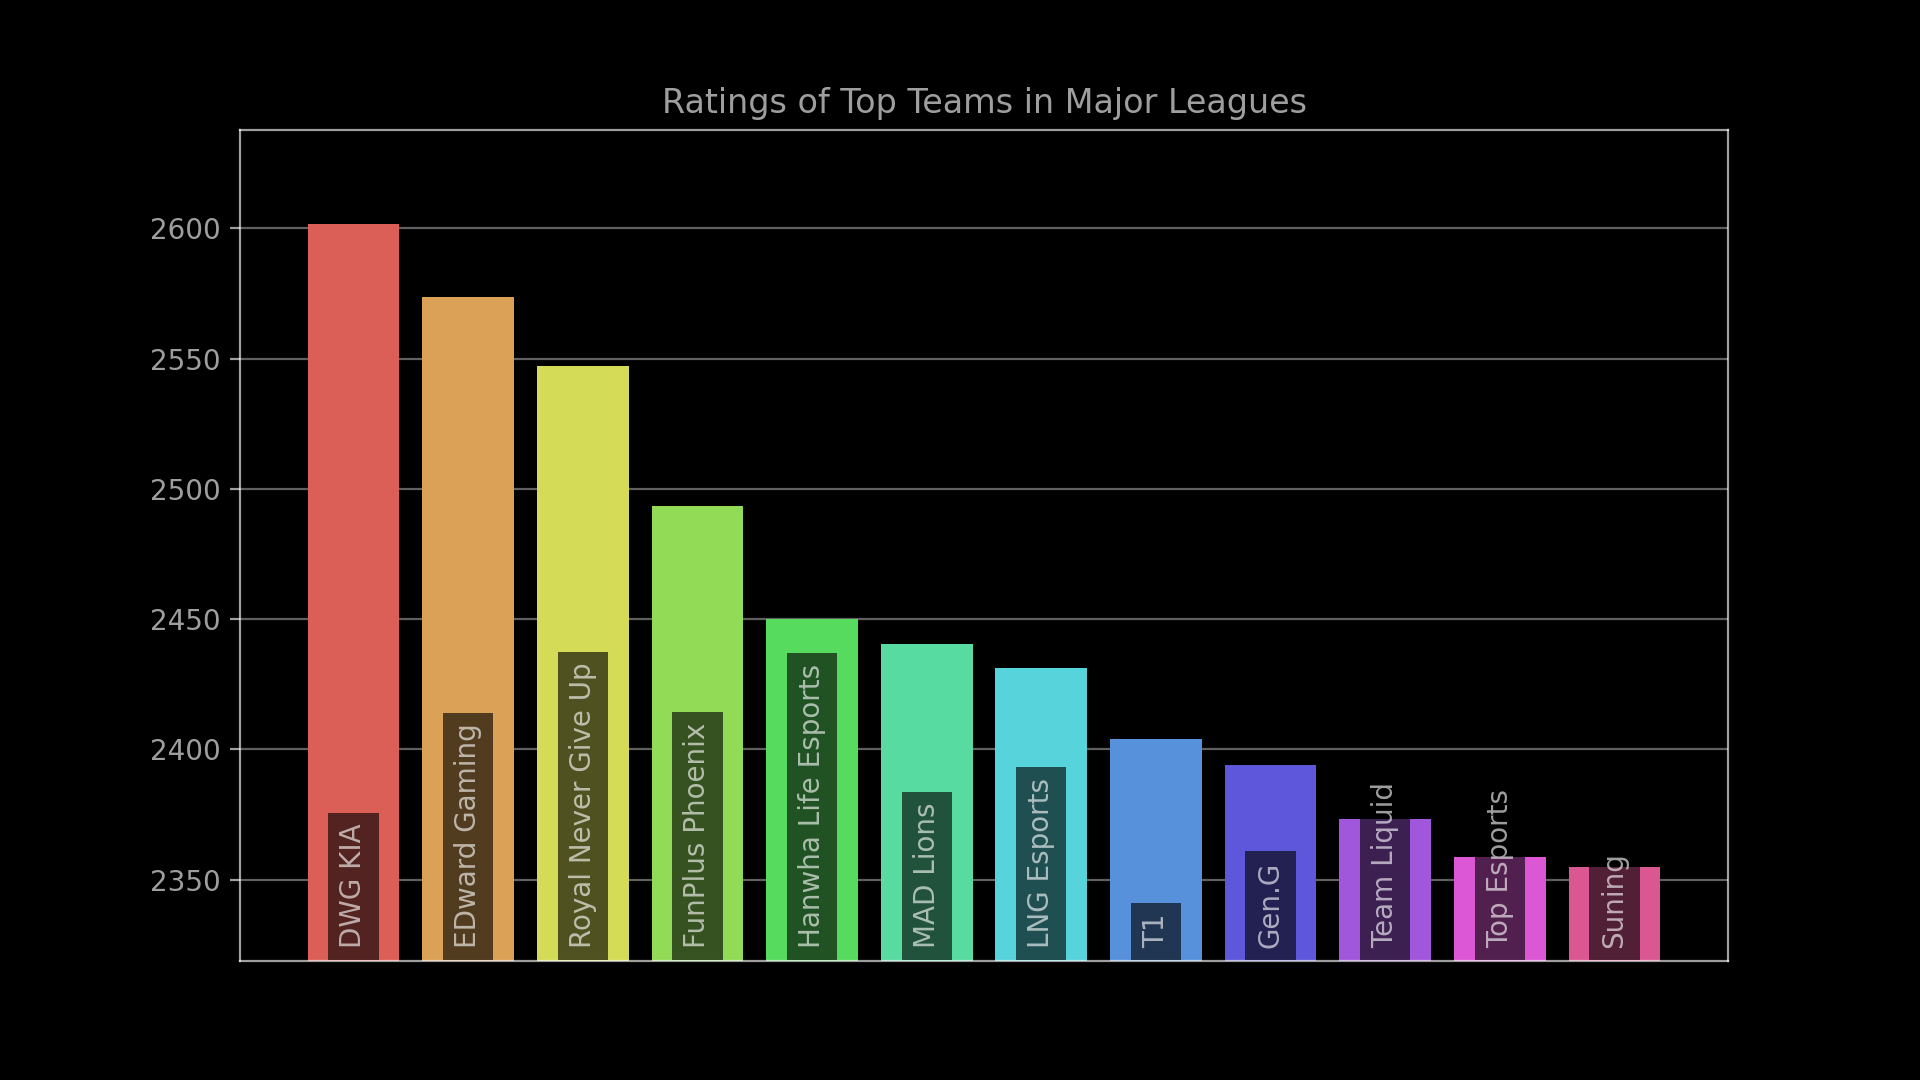
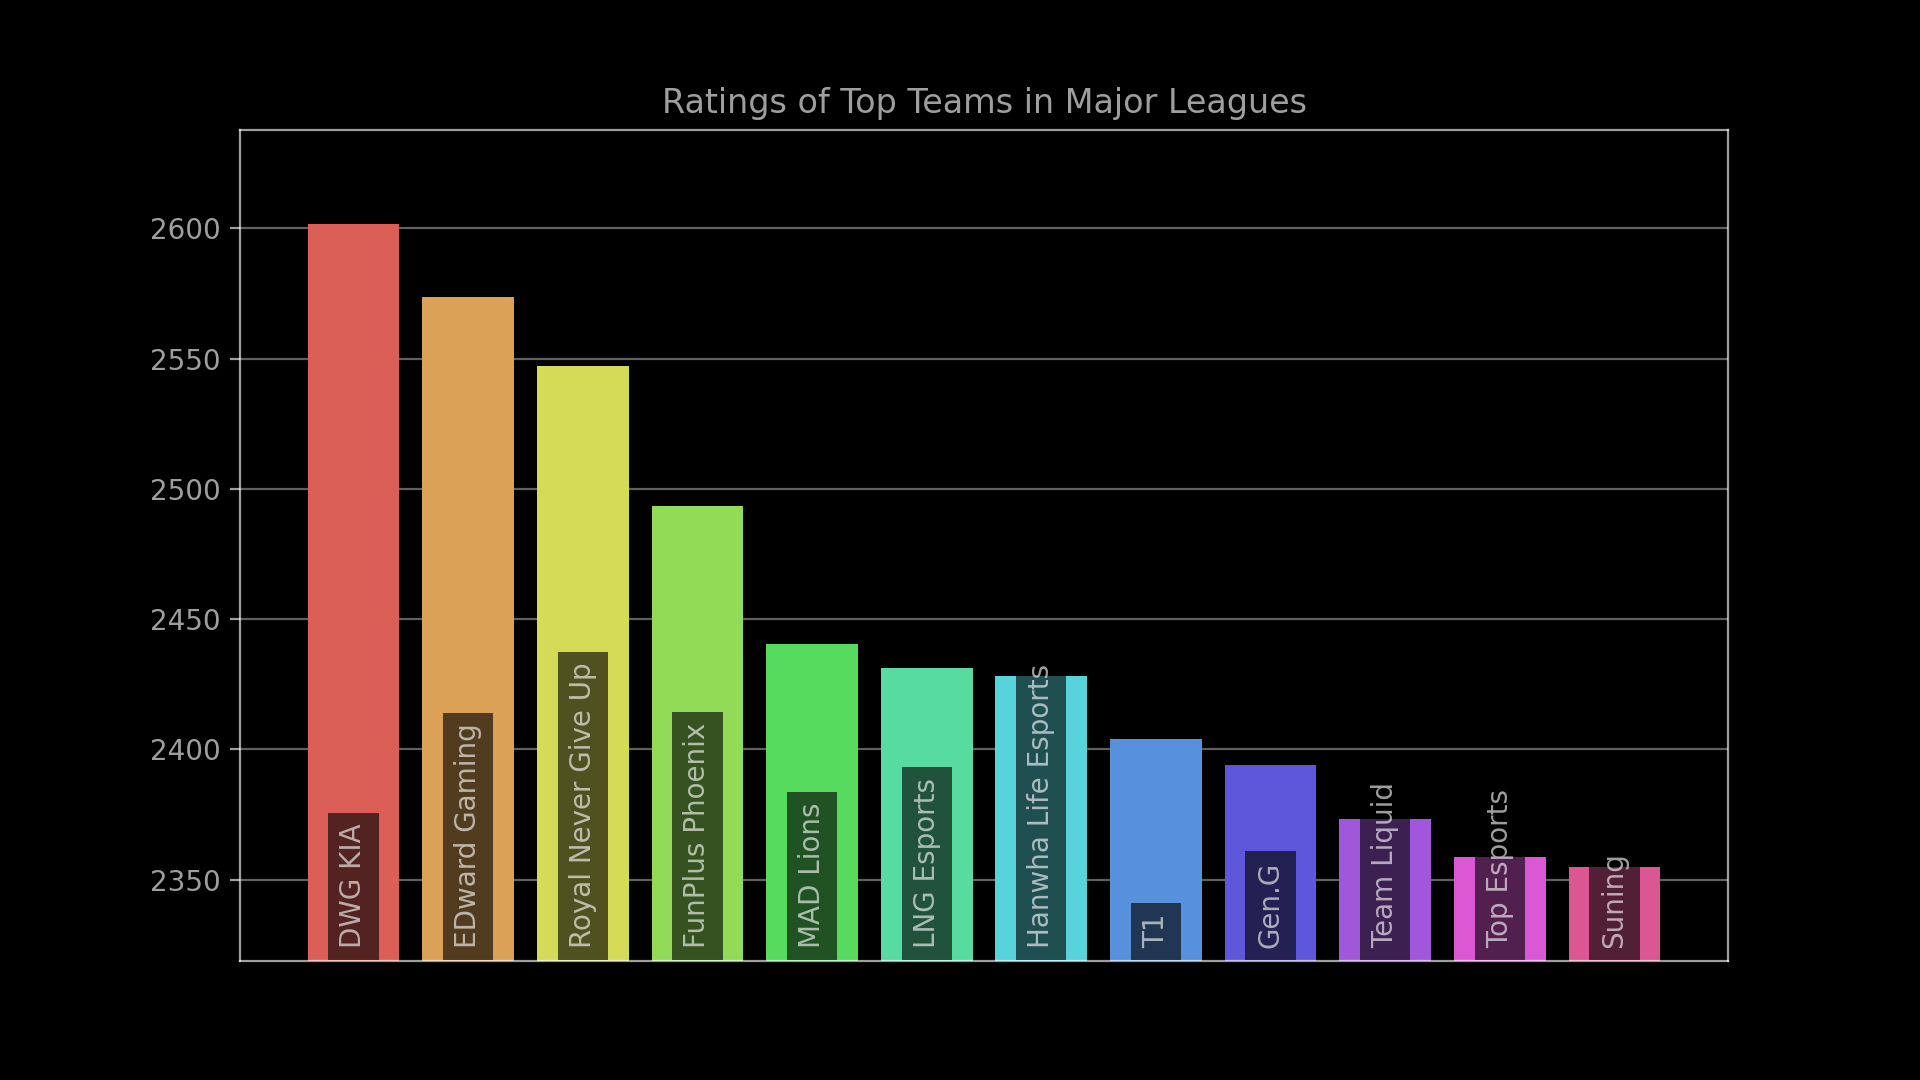
Update rating charts for 2021-10-12 15:00:00.

Changed region(s): [[0.375, 0.55, 0.5625, 0.8861], [0.4688, 0.7028, 0.5, 0.8556]]

diff --git a/index.html b/index.html
@@ -79,11 +79,11 @@
                 <tr><td style="text-align: right">1</td><td class="name">DWG KIA</td><td class="league" style="text-align: center">LCK</td><td class="rating" style="text-align: center">2601.8</td><td class="diff" style="text-align: center; white-space: nowrap"><span style="color: #4CAF50">&plus;39.5</span></td></tr>
             <tr><td style="text-align: right">2</td><td class="name">EDward Gaming</td><td class="league" style="text-align: center">LPL</td><td class="rating" style="text-align: center">2573.7</td><td class="diff" style="text-align: center; white-space: nowrap"><span style="color: #4CAF50">&plus;37.3</span></td></tr>
             <tr><td style="text-align: right">3</td><td class="name">Royal Never Give Up</td><td class="league" style="text-align: center">LPL</td><td class="rating" style="text-align: center">2547.1</td><td class="diff" style="text-align: center; white-space: nowrap"><span style="color: #4CAF50">&plus;21.4</span></td></tr>
-            <tr><td style="text-align: right">4</td><td class="name">FunPlus Phoenix</td><td class="league" style="text-align: center">LPL</td><td class="rating" style="text-align: center">2493.6</td><td class="diff" style="text-align: center; white-space: nowrap"><span style="color: #F44336">&minus;19.0</span></td></tr>
-            <tr><td style="text-align: right">5</td><td class="name">PSG Talon</td><td class="league" style="text-align: center">PCS</td><td class="rating" style="text-align: center">2455.8</td><td class="diff" style="text-align: center; white-space: nowrap"><span style="color: #F44336">&minus;21.2</span></td></tr>
-            <tr><td style="text-align: right">6</td><td class="name">Hanwha Life Esports</td><td class="league" style="text-align: center">LCK</td><td class="rating" style="text-align: center">2450.0</td><td class="diff" style="text-align: center; white-space: nowrap"><span style="color: #4CAF50">&plus;120.0</span></td></tr>
-            <tr><td style="text-align: right">7</td><td class="name">MAD Lions</td><td class="league" style="text-align: center">LEC</td><td class="rating" style="text-align: center">2440.6</td><td class="diff" style="text-align: center; white-space: nowrap"><span style="color: #F44336">&minus;32.9</span></td></tr>
-            <tr><td style="text-align: right">8</td><td class="name">LNG Esports</td><td class="league" style="text-align: center">LPL</td><td class="rating" style="text-align: center">2431.1</td><td class="diff" style="text-align: center; white-space: nowrap"><span style="color: #F44336">&minus;32.7</span></td></tr>
+            <tr><td style="text-align: right">4</td><td class="name">PSG Talon</td><td class="league" style="text-align: center">PCS</td><td class="rating" style="text-align: center">2501.2</td><td class="diff" style="text-align: center; white-space: nowrap"><span style="color: #4CAF50">&plus;24.2</span></td></tr>
+            <tr><td style="text-align: right">5</td><td class="name">FunPlus Phoenix</td><td class="league" style="text-align: center">LPL</td><td class="rating" style="text-align: center">2493.6</td><td class="diff" style="text-align: center; white-space: nowrap"><span style="color: #F44336">&minus;19.0</span></td></tr>
+            <tr><td style="text-align: right">6</td><td class="name">MAD Lions</td><td class="league" style="text-align: center">LEC</td><td class="rating" style="text-align: center">2440.6</td><td class="diff" style="text-align: center; white-space: nowrap"><span style="color: #F44336">&minus;32.9</span></td></tr>
+            <tr><td style="text-align: right">7</td><td class="name">LNG Esports</td><td class="league" style="text-align: center">LPL</td><td class="rating" style="text-align: center">2431.1</td><td class="diff" style="text-align: center; white-space: nowrap"><span style="color: #F44336">&minus;32.7</span></td></tr>
+            <tr><td style="text-align: right">8</td><td class="name">Hanwha Life Esports</td><td class="league" style="text-align: center">LCK</td><td class="rating" style="text-align: center">2428.1</td><td class="diff" style="text-align: center; white-space: nowrap"><span style="color: #4CAF50">&plus;98.1</span></td></tr>
             <tr><td style="text-align: right">9</td><td class="name">T1</td><td class="league" style="text-align: center">LCK</td><td class="rating" style="text-align: center">2404.0</td><td class="diff" style="text-align: center; white-space: nowrap"><span style="color: #F44336">&minus;9.5</span></td></tr>
             <tr><td style="text-align: right">10</td><td class="name">Gen.G</td><td class="league" style="text-align: center">LCK</td><td class="rating" style="text-align: center">2393.9</td><td class="diff" style="text-align: center; white-space: nowrap"><span style="color: #4CAF50">&plus;29.5</span></td></tr>
             <tr><td style="text-align: right">11</td><td class="name">Team Liquid</td><td class="league" style="text-align: center">LCS</td><td class="rating" style="text-align: center">2373.2</td><td class="diff" style="text-align: center; white-space: nowrap"><span style="color: #4CAF50">&plus;32.2</span></td></tr>
@@ -94,7 +94,7 @@
             <tr><td style="text-align: right">16</td><td class="name">Team WE</td><td class="league" style="text-align: center">LPL</td><td class="rating" style="text-align: center">2340.1</td><td class="diff" style="text-align: center; white-space: nowrap"></td></tr>
             <tr><td style="text-align: right">17</td><td class="name">Rogue </td><td class="league" style="text-align: center">LEC</td><td class="rating" style="text-align: center">2333.4</td><td class="diff" style="text-align: center; white-space: nowrap"><span style="color: #4CAF50">&plus;9.2</span></td></tr>
             <tr><td style="text-align: right">18</td><td class="name">Bilibili Gaming</td><td class="league" style="text-align: center">LPL</td><td class="rating" style="text-align: center">2318.9</td><td class="diff" style="text-align: center; white-space: nowrap"></td></tr>
-            <tr><td style="text-align: right">19</td><td class="name">DetonatioN FocusMe</td><td class="league" style="text-align: center">LJL</td><td class="rating" style="text-align: center">2316.5</td><td class="diff" style="text-align: center; white-space: nowrap"><span style="color: #4CAF50">&plus;102.3</span></td></tr>
+            <tr><td style="text-align: right">19</td><td class="name">DetonatioN FocusMe</td><td class="league" style="text-align: center">LJL</td><td class="rating" style="text-align: center">2316.5</td><td class="diff" style="text-align: center; white-space: nowrap"><span style="color: #4CAF50">&plus;93.7</span></td></tr>
             <tr><td style="text-align: right">20</td><td class="name">G2 Esports</td><td class="league" style="text-align: center">LEC</td><td class="rating" style="text-align: center">2313.3</td><td class="diff" style="text-align: center; white-space: nowrap"></td></tr>
             <tr><td style="text-align: right">21</td><td class="name">Fnatic</td><td class="league" style="text-align: center">LEC</td><td class="rating" style="text-align: center">2313.2</td><td class="diff" style="text-align: center; white-space: nowrap"><span style="color: #F44336">&minus;15.2</span></td></tr>
             <tr><td style="text-align: right">22</td><td class="name">Rare Atom</td><td class="league" style="text-align: center">LPL</td><td class="rating" style="text-align: center">2313.0</td><td class="diff" style="text-align: center; white-space: nowrap"></td></tr>
@@ -111,7 +111,7 @@
             <tr><td style="text-align: right">33</td><td class="name">KT Rolster</td><td class="league" style="text-align: center">LCK</td><td class="rating" style="text-align: center">2247.1</td><td class="diff" style="text-align: center; white-space: nowrap"></td></tr>
             <tr><td style="text-align: right">34</td><td class="name">Oh My God</td><td class="league" style="text-align: center">LPL</td><td class="rating" style="text-align: center">2224.9</td><td class="diff" style="text-align: center; white-space: nowrap"></td></tr>
             <tr><td style="text-align: right">35</td><td class="name">Pentanet.GG</td><td class="league" style="text-align: center">LCO</td><td class="rating" style="text-align: center">2224.4</td><td class="diff" style="text-align: center; white-space: nowrap"></td></tr>
-            <tr><td style="text-align: right">36</td><td class="name">Unicorns Of Love.CIS</td><td class="league" style="text-align: center">LCL</td><td class="rating" style="text-align: center">2217.1</td><td class="diff" style="text-align: center; white-space: nowrap"><span style="color: #F44336">&minus;57.9</span></td></tr>
+            <tr><td style="text-align: right">36</td><td class="name">Unicorns Of Love.CIS</td><td class="league" style="text-align: center">LCL</td><td class="rating" style="text-align: center">2217.1</td><td class="diff" style="text-align: center; white-space: nowrap"><span style="color: #F44336">&minus;14.9</span></td></tr>
             <tr><td style="text-align: right">37</td><td class="name">Invictus Gaming</td><td class="league" style="text-align: center">LPL</td><td class="rating" style="text-align: center">2213.1</td><td class="diff" style="text-align: center; white-space: nowrap"></td></tr>
             <tr><td style="text-align: right">38</td><td class="name">Fredit BRION</td><td class="league" style="text-align: center">LCK</td><td class="rating" style="text-align: center">2212.9</td><td class="diff" style="text-align: center; white-space: nowrap"></td></tr>
             <tr><td style="text-align: right">39</td><td class="name">LGD Gaming</td><td class="league" style="text-align: center">LPL</td><td class="rating" style="text-align: center">2200.2</td><td class="diff" style="text-align: center; white-space: nowrap"></td></tr>

diff --git a/assets/js/chart-config.js b/assets/js/chart-config.js
@@ -3,10 +3,10 @@ const MONTH_ABBREVIATIONS = ["Jan", "Feb", "Mar", "Apr", "May", "Jun", "Jul", "A
 const topChartConfig = {
     type: "bar",
     data: {
-        labels: ['DWG KIA', 'EDward Gaming', 'Royal Never Give Up', 'FunPlus Phoenix', 'Hanwha Life Esports', 'MAD Lions', 'LNG Esports', 'T1', 'Gen.G', 'Team Liquid', 'Top Esports', 'Suning'],
+        labels: ['DWG KIA', 'EDward Gaming', 'Royal Never Give Up', 'FunPlus Phoenix', 'MAD Lions', 'LNG Esports', 'Hanwha Life Esports', 'T1', 'Gen.G', 'Team Liquid', 'Top Esports', 'Suning'],
         datasets: [{
             backgroundColor: ['#dc5f57', '#dca157', '#d4dc57', '#91dc57', '#57dc5f', '#57dca1', '#57d4dc', '#5791dc', '#5f57dc', '#a157dc', '#dc57d4', '#dc5791'],
-            data: [2601.7767231817234, 2573.7372562153205, 2547.126672714404, 2493.554659376822, 2450.0042372562298, 2440.607036834309, 2431.0768523745746, 2403.9727882863267, 2393.9156585533783, 2373.235365010657, 2358.8275642289427, 2354.8123246379455],
+            data: [2601.7767231817234, 2573.7372562153205, 2547.126672714404, 2493.554659376822, 2440.607036834309, 2431.0768523745746, 2428.057327693735, 2403.9727882863267, 2393.9156585533783, 2373.235365010657, 2358.8275642289427, 2354.8123246379455],
             label: "Rating Points"
         }]
     },

diff --git a/README.md b/README.md
@@ -49,9 +49,9 @@ confidence interval of the rating.
 | 2 | EDward Gaming | 2573.7 | 85.2 |
 | 3 | Royal Never Give Up | 2547.1 | 95.0 |
 | 4 | FunPlus Phoenix | 2493.6 | 92.3 |
-| 5 | Hanwha Life Esports | 2450.0 | 68.5 |
-| 6 | MAD Lions | 2440.6 | 96.9 |
-| 7 | LNG Esports | 2431.1 | 76.4 |
+| 5 | MAD Lions | 2440.6 | 96.9 |
+| 6 | LNG Esports | 2431.1 | 76.4 |
+| 7 | Hanwha Life Esports | 2428.1 | 66.9 |
 | 8 | T1 | 2404.0 | 83.8 |
 | 9 | Gen.G | 2393.9 | 94.3 |
 | 10 | Team Liquid | 2373.2 | 93.3 |
